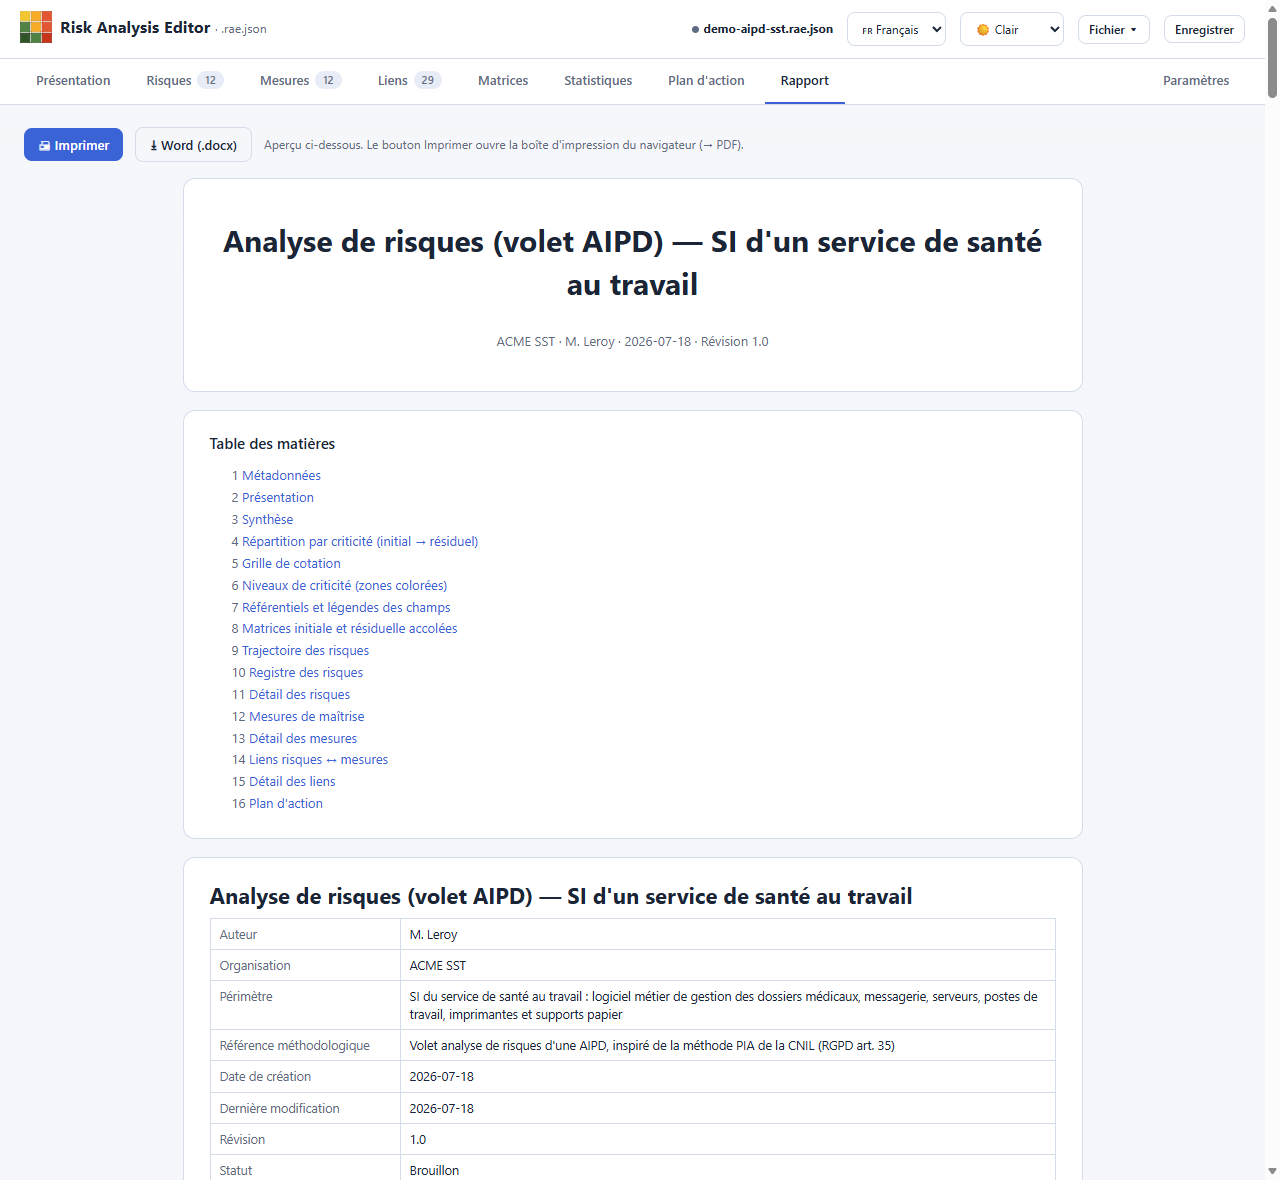
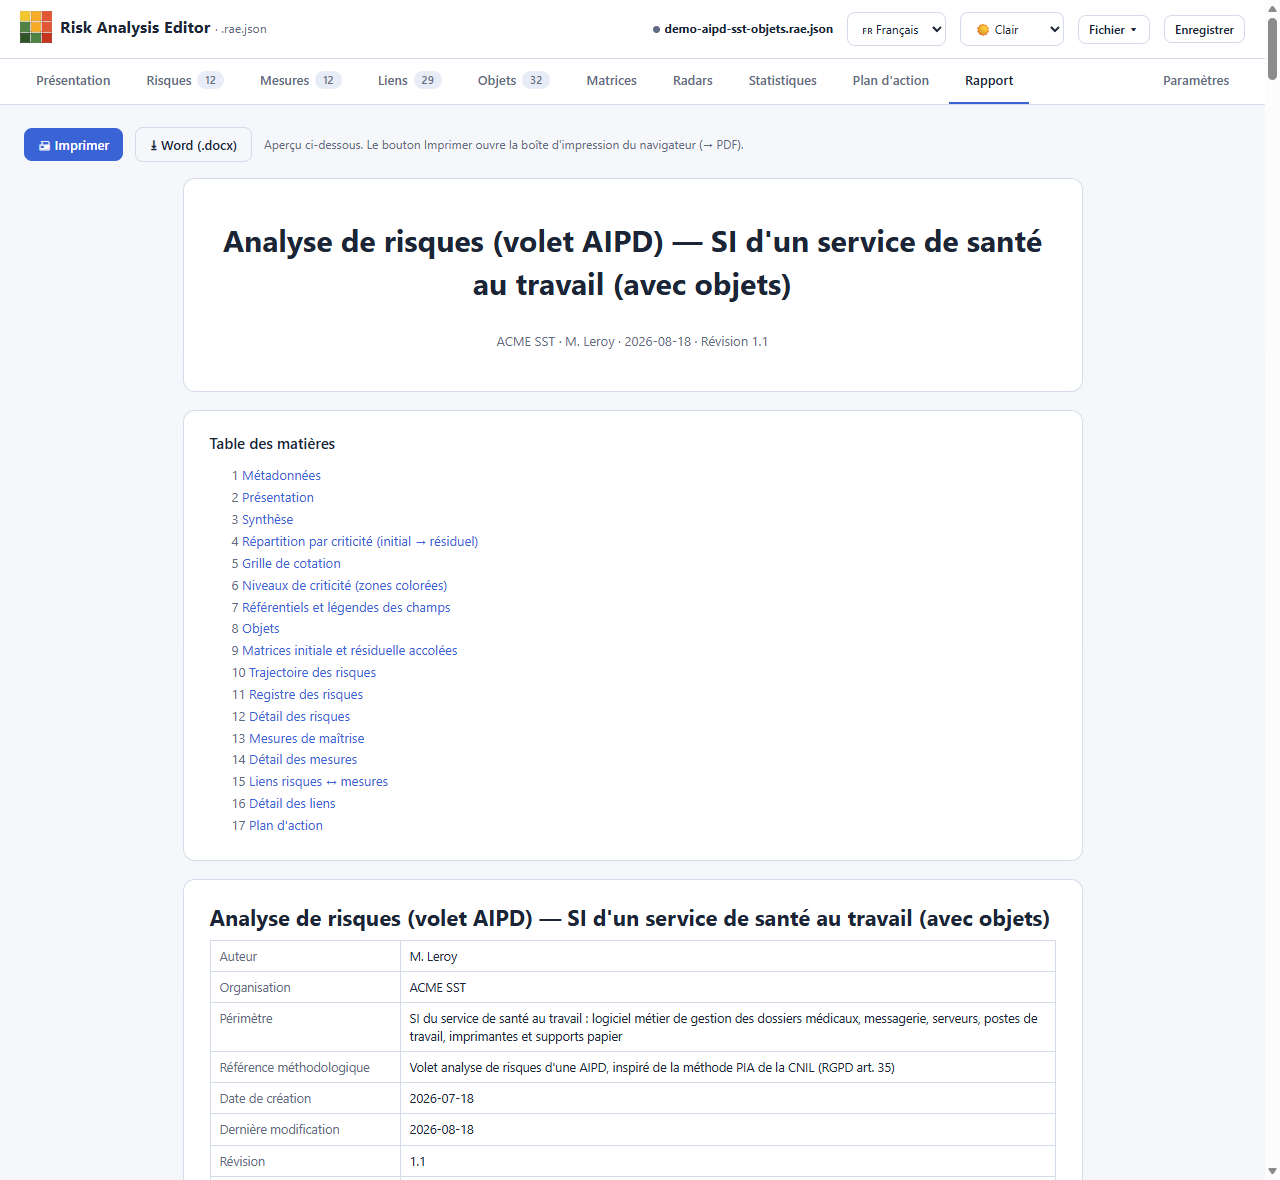
docs(captures): rafraîchit toutes les captures + Objets/type/champ calculé ; onglet Objets deep-linkable
- app : ajoute « objects » à VIEW_TOKENS — l'onglet Objets était le seul à ne pas
  être atteignable par le paramètre d'URL ?tab= ; il est désormais deep-linkable
  comme les autres (à sa place, entre « links » et « matrices »).
- tools/shots-guide.py : bascule sur la démo « objets » (demo-aipd-sst-objets,
  même socle enrichi d'objets/références) et ajoute trois captures — onglet
  Objets (?tab=objets), éditeur de type d'objet, éditeur de champ « valeur
  calculée » mettant en avant le picker d'insertion de formule.
- Régénère les 25 captures existantes du guide et les 3 captures du README.
- guide-utilisateur.md : insère les 3 nouvelles images (§14 champ calculé,
  §15 éditeur de type et onglet Objets).

diff --git a/app/risk-analysis-editor.html b/app/risk-analysis-editor.html
@@ -3281,7 +3281,7 @@ document.querySelectorAll(".view").forEach(v=>{
 
 /* Ouverture sur un onglet/sous-onglet via ?tab=<onglet>[.<sous-onglet>]
    (ex. ?tab=matrices.traj, ?tab=settings.grid, ?tab=plan). Token inconnu -> ignoré. */
-const VIEW_TOKENS=["presentation","risks","measures","links","matrices","radars","stats","plan","report","settings"];
+const VIEW_TOKENS=["presentation","risks","measures","links","objects","matrices","radars","stats","plan","report","settings"];
 /* Sous-onglets : boutons à deux états. `aria-pressed` reflète la classe .active
    (le motif « tab » complet imposerait de câbler des tabpanels pour chaque sous-vue). */
 function syncSegAria(){document.querySelectorAll(".seg button").forEach(b=>b.setAttribute("aria-pressed",b.classList.contains("active")?"true":"false"));}

diff --git a/tools/shots-guide.py b/tools/shots-guide.py
@@ -11,7 +11,7 @@ ORIGIN = os.environ.get("SHOTS_ORIGIN", "http://localhost:4599")
 BASE = ORIGIN + "/app/risk-analysis-editor.html"
 MAX_H = 1400     # hauteur maximale d'une capture : au-dela, l'image est coupee (recadrage)
 FADE  = 120      # hauteur du degrade de fondu applique au bas des captures coupees
-DEMO = "?file=../examples/demo-aipd-sst.rae.json&lang=fr"
+DEMO = "?file=../examples/demo-aipd-sst-objets.rae.json&lang=fr"
 OUT  = "docs/images/"
 
 def fondu_bas(im):
@@ -32,7 +32,7 @@ def fondu_bas(im):
 SHOTS = [
     ("guide-01-accueil",            "?lang=fr",
         "(async()=>{try{await rcTx('readwrite',s=>s.clear());"
-        "await rcTx('readwrite',s=>s.put({id:'a',name:'demo-aipd-sst.rae.json',title:'Analyse de risques — volet AIPD (sante au travail)',at:Date.now(),handle:{name:'x'}}));"
+        "await rcTx('readwrite',s=>s.put({id:'a',name:'demo-aipd-sst-objets.rae.json',title:'Analyse de risques — volet AIPD (sante au travail, avec objets)',at:Date.now(),handle:{name:'x'}}));"
         "await rcTx('readwrite',s=>s.put({id:'b',name:'audit-si-2026.rae.json',title:'Audit SI 2026 — Cartographie EBIOS RM',at:Date.now()-2000,handle:{name:'y'}}));"
         "await renderStartRecents();}catch(e){}})()", True,  940),
     ("guide-02-presentation",       DEMO+"&tab=presentation",   None, True,  940),
@@ -69,6 +69,22 @@ SHOTS = [
         "radarState.dim=radarBestDim();renderRadars();", True,  980),
     ("guide-25-parametres-radars",  DEMO+"&tab=settings.radars",
         "setParamMode('radars')", True,  1180),
+    # --- Objets & références (§15) et champ « valeur calculée » (§14) ---
+    ("guide-26-objets",             DEMO+"&tab=objects",        None, True,  940),
+    ("guide-27-type-objet",         DEMO+"&tab=settings.objtypes",
+        "setParamMode('objtypes');openObjectTypeModal(0)", False, 1120),
+    # Éditeur d'un champ « valeur calculée » : on met en avant le PICKER d'insertion de la
+    # formule (onglets champs/dérivés/objets liés/fonctions/opérateurs + chips) en faisant
+    # défiler la modale pour le centrer.
+    ("guide-28-champ-calcule",      DEMO+"&tab=settings.fields",
+        "openCustomFieldModal(null);"
+        "var st=document.getElementById('cfType');st.value='computed';st.dispatchEvent(new Event('change',{bubbles:true}));"
+        "document.getElementById('cfCode').value='score_pondere';"
+        "document.getElementById('cfLab').value='Score pondéré';"
+        "var rt=document.getElementById('cfResultType');if(rt){rt.value='integer';rt.dispatchEvent(new Event('change',{bubbles:true}));}"
+        "var e=document.getElementById('cfExpr');if(e){e.value='score_initial * 2';e.dispatchEvent(new Event('input',{bubbles:true}));}"
+        "document.getElementById('cfCalcPicker').scrollIntoView({block:'center'});",
+        False, 1120),
 ]
 
 def run():

diff --git a/docs/guide-utilisateur.md b/docs/guide-utilisateur.md
@@ -419,6 +419,8 @@ Une **valeur calculée** est un champ **dérivé** : au lieu d'être saisie, ell
 
 Dans les onglets *Champs*, *Base* et *Objets liés*, une **petite icône** rappelle le **type** de chaque champ (nombre, texte, date, échelle, calcul…) pour composer la formule d'un coup d'œil. Une fonction insérée **entoure** le texte sélectionné le cas échéant : sélectionner `cf.cout` puis cliquer *ROUND* donne `ROUND(cf.cout)`.
 
+![Éditeur d'un champ « valeur calculée » : la formule et son picker d'insertion (onglets et chips)](images/guide-28-champ-calcule.png)
+
 **Les fonctions disponibles** (liste blanche) : agrégats **SUM, AVERAGE, MEDIAN, MIN, MAX, COUNT** ; arithmétique **ROUND, ROUNDUP, ROUNDDOWN, INT, ABS, MOD, POWER, SQRT** ; logique **IF, AND, OR, NOT** ; texte **CONCAT, LEN** (et l'opérateur `&`) ; dates **TODAY, DATE, YEAR, MONTH, DAY, EDATE, DATEDIF**. Opérateurs `+ − * / ^` et comparaisons `= <> < <= > >=`. Toute référence ou fonction inconnue est signalée à la saisie.
 
 > **Compter les valeurs d'un champ multivalué.** Un champ *liste à cocher*, *étiquettes* ou *référence* multiple est vu comme une **liste** : `COUNT(cf.<code>)` en donne le **nombre de valeurs** (0 s'il est vide). En contexte texte, la liste s'écrit valeurs jointes par « , ».
@@ -463,9 +465,13 @@ Les types se créent dans *Paramètres › Types d'objets* (bouton **« + Ajoute
 
 Chaque **attribut** se décrit exactement comme un champ personnalisé (voir §14) : un **code**, un **libellé**, un **type** parmi les dix disponibles — plus le type **« Référence à un objet »**, qui permet à un objet d'en **référencer un autre** (mono ou multivalué). Un attribut peut même **cibler son propre type** (auto-référence, par ex. un bien support qui en supporte un autre) ; l'outil l'autorise en signalant simplement le risque de **boucles**.
 
+![Éditeur d'un type d'objet](images/guide-27-type-objet.png)
+
 ### Créer et gérer les instances
 
 Les **instances** se gèrent dans l'onglet **Objets** (bouton **« + Ajouter une instance »**). Le formulaire de saisie est **généré automatiquement** à partir des attributs du type. À l'enregistrement, l'instance reçoit un **identifiant automatique** (plus petit numéro libre du type) et son **libellé** reflète la valeur de l'attribut désigné. Le badge de l'onglet compte les instances. Un type **sans attribut** reste utilisable : ses instances n'ont qu'un identifiant.
+
+![L'onglet Objets : un sous-onglet par type, avec le tableau des instances](images/guide-26-objets.png)
 
 Chaque type d'objet s'affiche dans une **carte** avec le tableau de ses instances. Trois commodités :
 
